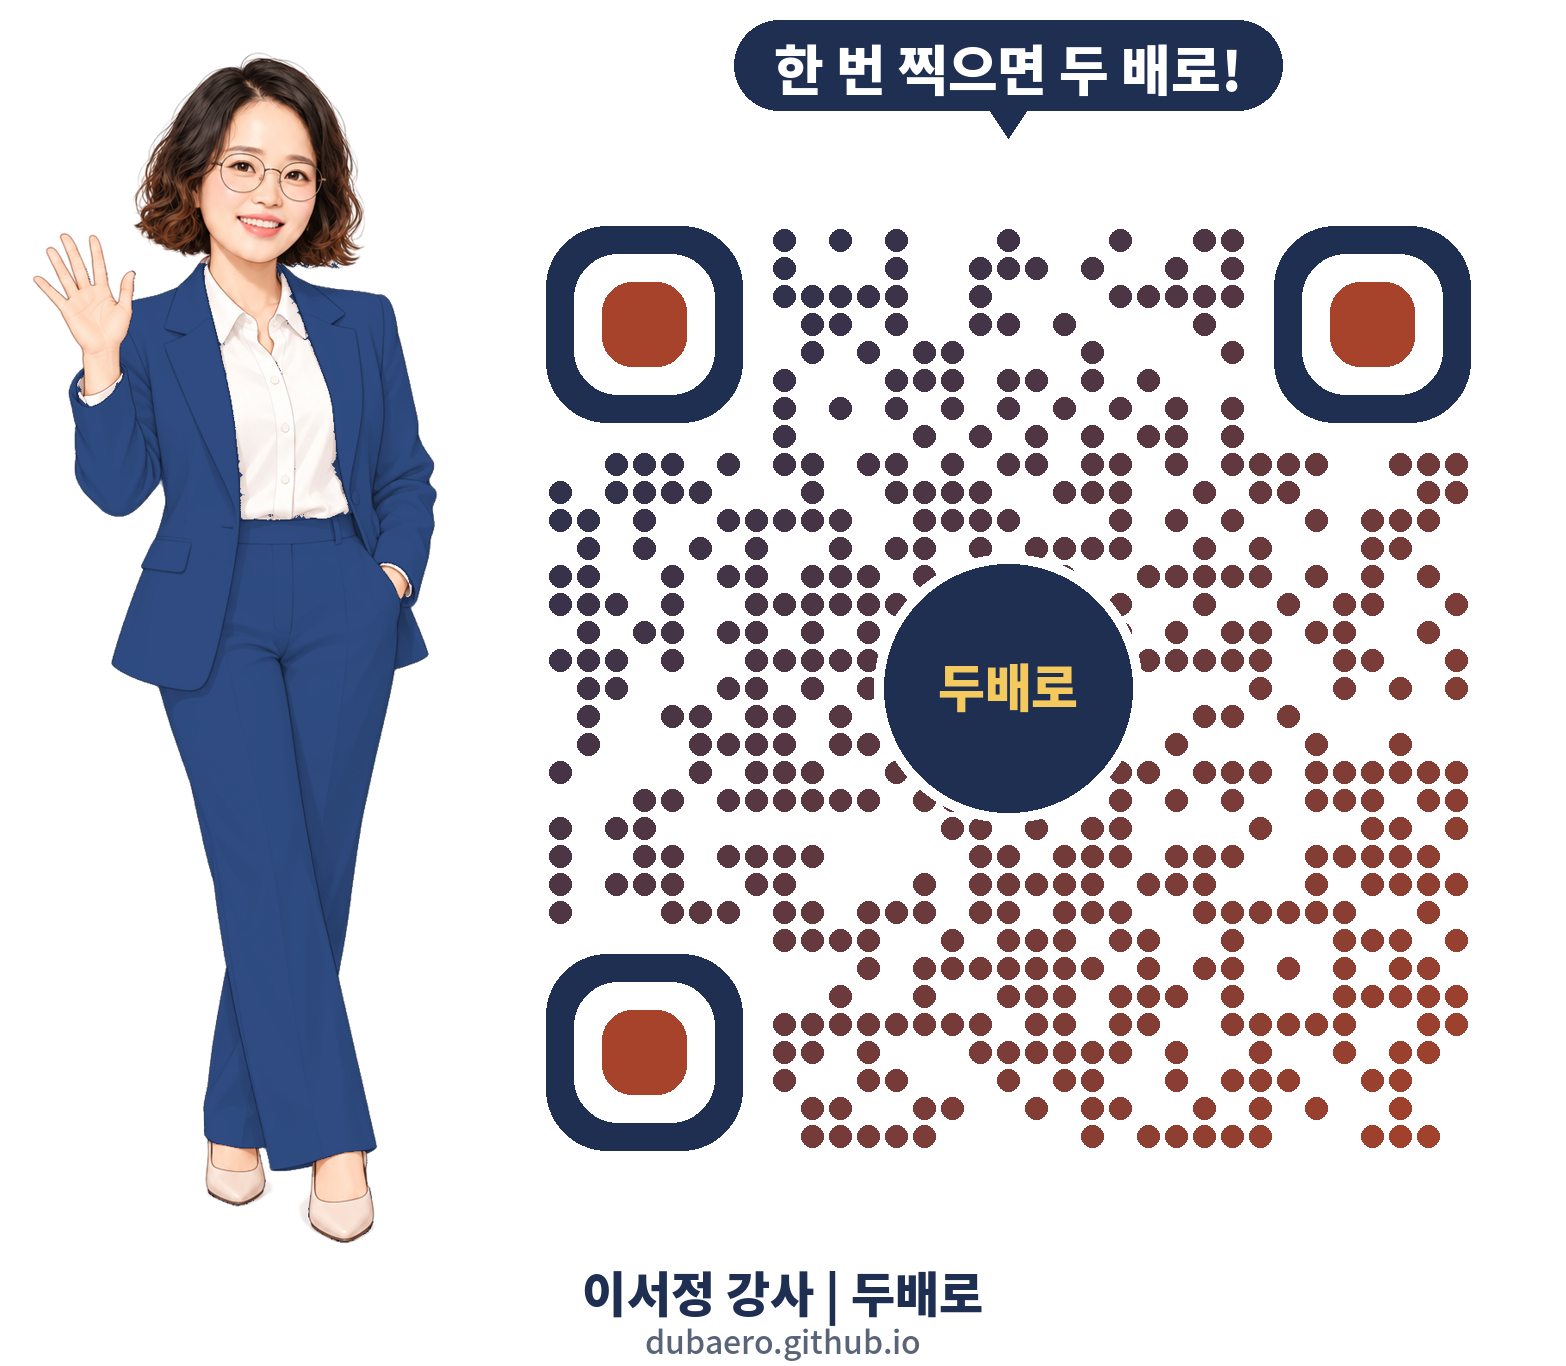
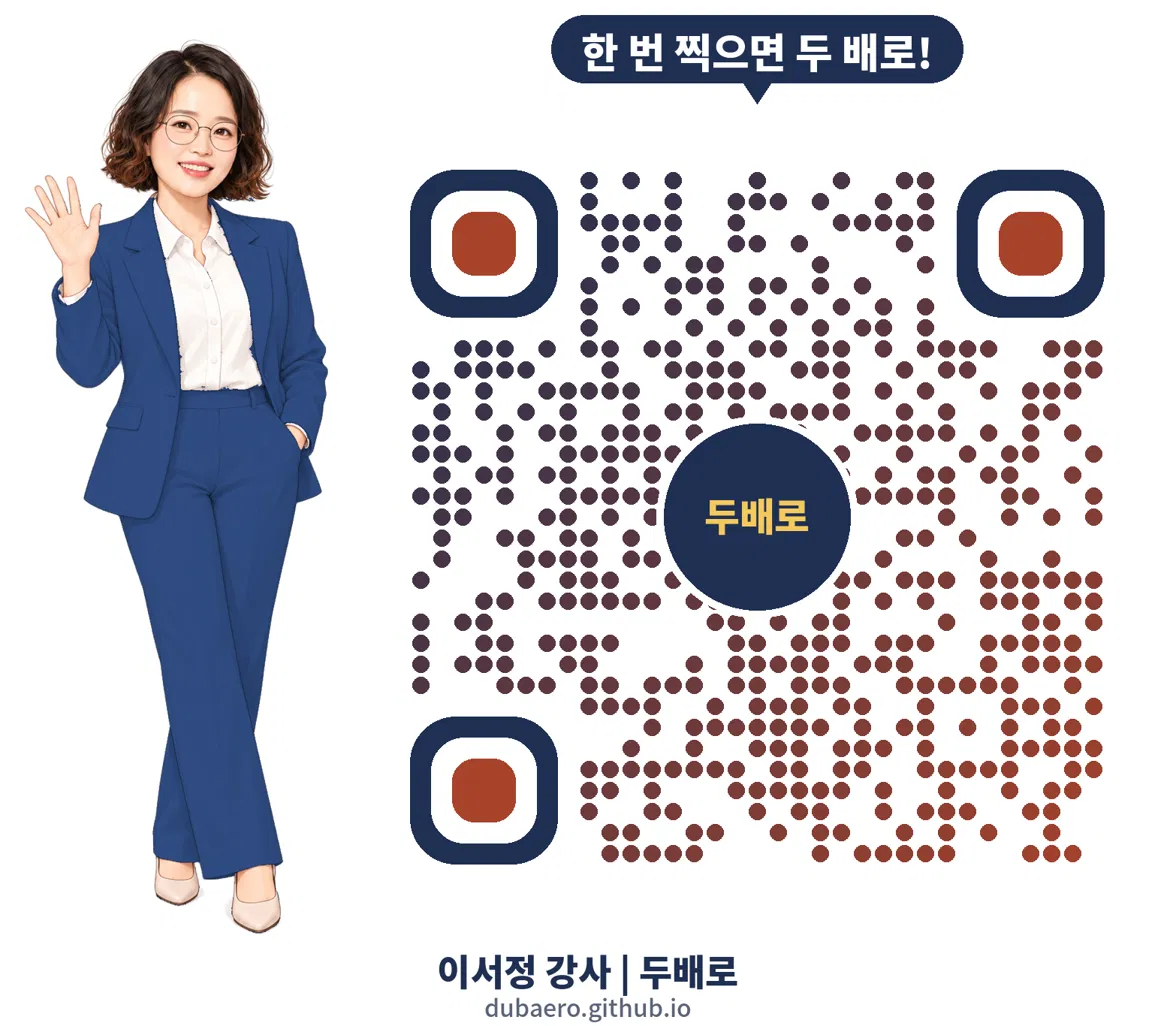
QR 이미지: 강사님이 보내 준 이미지 그대로 적용
Claude-Session: https://claude.ai/code/session_01TsmGsLnap3bjirNVsuvBw2

Changed region(s): [[0.6122, 0.4678, 0.7041, 0.5302]]

diff --git a/index.html b/index.html
@@ -804,7 +804,7 @@ body{font-size:15.5px!important}.ti{font-size:15.5px!important}.ti small{font-si
 </section>
 
 
-<div class="qr-ov" id="qr-ov" hidden><div class="qr-card" role="dialog" aria-modal="true" aria-label="홈페이지 QR"><button type="button" class="qr-x" id="qr-x" aria-label="닫기">×</button><div class="qr-stage"><img class="qr-bgi" src="img/qr-dubaero.png" alt="한 번 찍으면 두 배로! 이서정 강사 홈페이지 QR 코드" width="1566" height="1366"></div></div></div>
+<div class="qr-ov" id="qr-ov" hidden><div class="qr-card" role="dialog" aria-modal="true" aria-label="홈페이지 QR"><button type="button" class="qr-x" id="qr-x" aria-label="닫기">×</button><div class="qr-stage"><img class="qr-bgi" src="img/qr-dubaero.png?v=3" alt="한 번 찍으면 두 배로! 이서정 강사 홈페이지 QR 코드" width="1176" height="1026"></div></div></div>
 <div class="gate" id="gate" hidden>
   <div class="gate-box" role="dialog" aria-modal="true" aria-labelledby="gate-title">
     <button type="button" class="gate-x" id="gate-x" aria-label="닫기">×</button>
